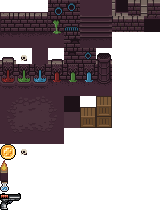
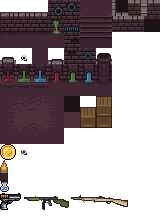
Added sprites

Changed region(s): [[0.1562, 0.875, 0.8125, 0.9375]]

diff --git a/src/main/java/eu/eutampieri/catacombs/model/Weapon.java b/src/main/java/eu/eutampieri/catacombs/model/Weapon.java
@@ -76,8 +76,48 @@ public abstract class Weapon extends GameObject {
         this.fireDelayCount = 0;
     }
 
+    /**
+     *
+     * @param e        Entity using weapon
+     * @param tm       Tile map
+     * @param x        X position
+     * @param y        Y position
+     * @param strength Bullet strength
+     * @param ps       Bullet speed
+     * @param fr       Weapon fire rate
+     * @param w        Weapon hit box width
+     * @param h        Weapon hit box height
+     * @param team     Shooting entity team
+     */
     public Weapon(final Entity e, final TileMap tm, final int x, final int y, final int strength, final int ps,
-                  final int fr, final Team team, final GameObjectType kind, final int size) {
+                  final int fr, final int w, final int h, final Team team) {
+        super(x, y, GameObjectType.PICKUP, new CollisionBox(x, y, w, h), team);
+        this.user = e;
+        setTileMap(tm);
+        setStrength(strength);
+        setProjectileSpeed(ps);
+        setFireRate(fr);
+        setFireDelay(Math.round(MINUTE_TO_MILLIS / fireRate));
+        setCanFire(true);
+        this.bulletSize = BULLET_DEFAULT_SIZE;
+        this.fireDelayCount = 0;
+    }
+
+    /**
+     *
+     * @param e             Entity using weapon
+     * @param tm            Tile map
+     * @param x             X position
+     * @param y             Y position
+     * @param strength      Bullet strength
+     * @param ps            Bullet speed
+     * @param fr            Weapon fire rate
+     * @param team          Shooting entity team
+     * @param bulletKind    Bullet kind
+     * @param bulletSize    Bullet size
+     */
+    public Weapon(final Entity e, final TileMap tm, final int x, final int y, final int strength, final int ps,
+                  final int fr, final Team team, final GameObjectType bulletKind, final int bulletSize) {
         super(x, y, GameObjectType.PICKUP, new CollisionBox(x, y, SIZE, SIZE), team);
         this.user = e;
         setTileMap(tm);
@@ -86,8 +126,8 @@ public abstract class Weapon extends GameObject {
         setFireRate(fr);
         setFireDelay(Math.round(MINUTE_TO_MILLIS / fireRate));
         setCanFire(true);
-        this.bulletKind = kind;
-        this.bulletSize = size;
+        this.bulletKind = bulletKind;
+        this.bulletSize = bulletSize;
         this.fireDelayCount = 0;
     }
 
@@ -136,6 +176,12 @@ public abstract class Weapon extends GameObject {
         return this.canFire;
     }
 
+    /**
+     * Fires a bullet.
+     * @param psx   Projectile speed modifier in the X axis (1, -1, 0 usually)
+     * @param psy   Projectile speed modifier in the Y axis (1, -1, 0 usually)
+     * @return      A GameObject list composed of the bullet fired.
+     */
     public final List<GameObject> fire(final int psx, final int psy) {
        final Projectile p;
        if (this.bulletKind != null && bulletSize > 8) {

diff --git a/src/main/java/eu/eutampieri/catacombs/ui/gamefx/AssetManagerProxy.java b/src/main/java/eu/eutampieri/catacombs/ui/gamefx/AssetManagerProxy.java
@@ -22,6 +22,7 @@ public final class AssetManagerProxy {
     private static final double MAP_SCALING_FACTOR = 2.25;
     private final static double BULLET_SCALING_FACTOR = 0.25;
     private final static double BOSS_BULLET_SCALING_FACTOR = 1;
+    private final static double WEAPON_SCALING_FACTOR = 0.85;
     private static final Map<Tile, BufferedImage> MAP_CACHE = new HashMap<>();
     private static final Map<Triple<Entity, Action, Direction>, Pair<Animation, Long>> ANIMATIONS_CACHE = new HashMap<>();
     private static final Map<StaticEntityKind, BufferedImage> STATIC_ASSETS_CACHE = new HashMap<>();
@@ -130,7 +131,9 @@ public final class AssetManagerProxy {
             case POTION:
                 return am.getImage("potion");
             case WEAPON:
-                return am.getImage("gun");
+                return entity instanceof Rifle ?
+                        itf.scale(WEAPON_SCALING_FACTOR).transform(am.getImage("rifle")) :
+                        itf.scale(WEAPON_SCALING_FACTOR).transform(am.getImage("gun"));
             default:
                 return null;
         }
@@ -190,5 +193,8 @@ public final class AssetManagerProxy {
                     return null;
             }
         }
+    }
+    public static double getWeaponScalingFactor() {
+        return WEAPON_SCALING_FACTOR;
     }
 }

diff --git a/src/main/java/eu/eutampieri/catacombs/model/Rifle.java b/src/main/java/eu/eutampieri/catacombs/model/Rifle.java
@@ -1,11 +1,14 @@
 package eu.eutampieri.catacombs.model;
 
 import eu.eutampieri.catacombs.model.map.TileMap;
+import eu.eutampieri.catacombs.ui.gamefx.AssetManagerProxy;
 
 public class Rifle extends Weapon {
     private static final int STRENGTH = 3;
     private static final int FIRE_RATE = 210;
     private static final int PROJECTILE_SPEED = 14;
+    private static final int BOX_WIDTH = (int) (45 * AssetManagerProxy.getWeaponScalingFactor());
+    private static final int BOX_HEIGHT = 17;
 
     /**
      * @param e        Entity using gun
@@ -15,6 +18,6 @@ public class Rifle extends Weapon {
      * @param team     The team, i.e. if it's not an enemy
      */
     public Rifle(final Entity e, final TileMap tm, final int x, final int y, final Team team) {
-        super(e, tm, x, y, STRENGTH, PROJECTILE_SPEED, FIRE_RATE, team);
+        super(e, tm, x, y, STRENGTH, PROJECTILE_SPEED, FIRE_RATE, BOX_WIDTH, BOX_HEIGHT, team);
     }
 }

diff --git a/src/main/java/eu/eutampieri/catacombs/ui/gamefx/AssetManager.java b/src/main/java/eu/eutampieri/catacombs/ui/gamefx/AssetManager.java
@@ -158,8 +158,11 @@ public final class AssetManager {
         allImages.put("coin", tileSheet.cutImage(0, 144, 16, 16));
         allImages.put("skull", tileSheet.cutImage(16, 144, 16, 16));
         allImages.put("fire", tileSheet.cutImage(0, 160, 8, 21));
-        allImages.put("potion", tileSheet.cutImage(0, 181, 9, 11));
+        allImages.put("potion", tileSheet.cutImage(0, 181, 8, 11));
         allImages.put("gun", tileSheet.cutImage(0, 193, 21, 17));
+        allImages.put("rifle", tileSheet.cutImage(24, 193, 45, 17));
+        allImages.put("sniper", tileSheet.cutImage(71, 193, 57, 17));
+
         // Check:ON: MagicNumber
     }
 

diff --git a/src/main/java/eu/eutampieri/catacombs/model/Boss.java b/src/main/java/eu/eutampieri/catacombs/model/Boss.java
@@ -23,7 +23,7 @@ public final class Boss extends Entity {
     private static final long MOVE_DELAY = 15L * 100;
     private static final long PAUSE_DELAY = 10L * 100;
     private static final int BASE_DAMAGE = 15;
-    private static final int BASE_PROJECTILE_SPEED = 2;
+    private static final int BASE_PROJECTILE_SPEED = 8;
     private static final int BASE_FIRE_RATE = 15;
     private static final int BULLET_SIZE = 28;
 

diff --git a/src/main/java/eu/eutampieri/catacombs/ui/World.java b/src/main/java/eu/eutampieri/catacombs/ui/World.java
@@ -51,7 +51,7 @@ public final class World {
             return new SimplePotion(healingPower, "Potion", x, y);
         }));
 
-        this.entities.addAll(objectFactory.spawnSome(5, (x, y, tm) -> {
+        this.entities.addAll(objectFactory.spawnSome(3, (x, y, tm) -> {
 
             if(rand.nextInt(2) == 0) {
                 return new Gun(null, tm, x, y, GameObject.Team.FRIEND);
